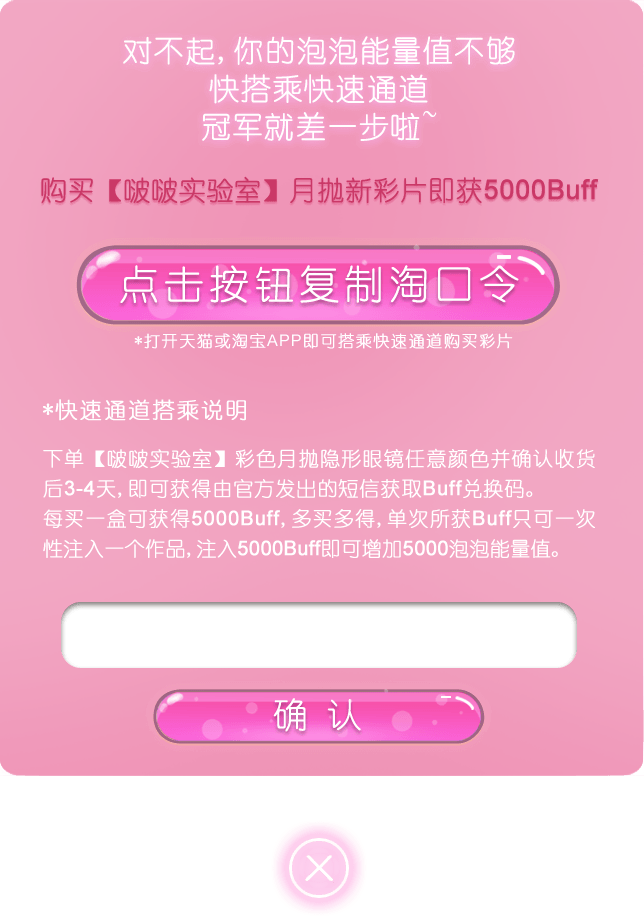
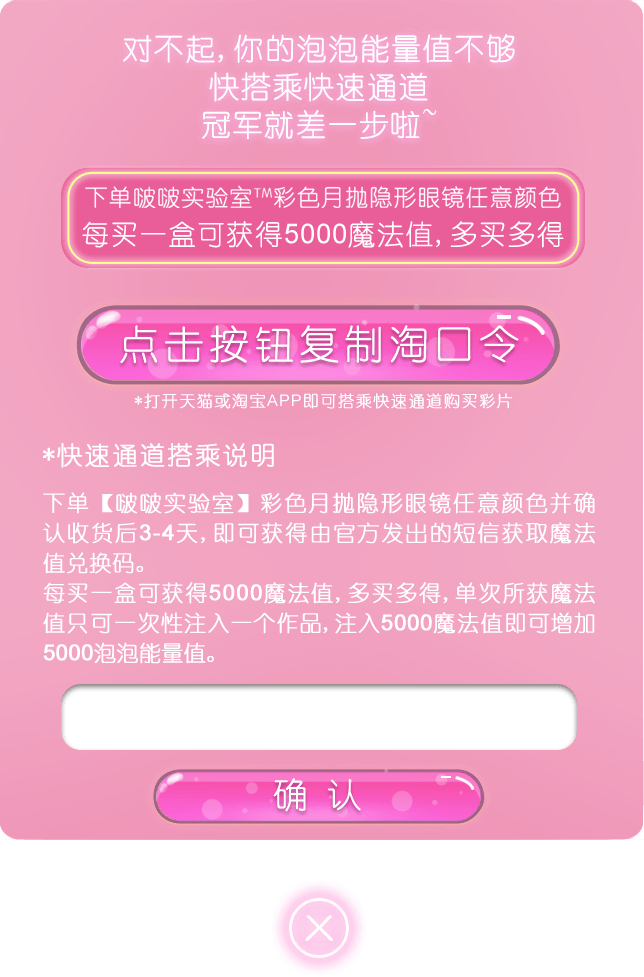
加能量页面修改

diff --git a/css/index.css b/css/index.css
@@ -1056,7 +1056,7 @@ input::-webkit-input-placeholder, textarea::-webkit-input-placeholder {
 	top: 50%;
 	left: 50%;
 	width: 6.44rem;
-	height: 9.17rem;
+	height: 9.77rem;
 	transform: translate(-50%, -50%);
 	background-image: url(../images/codeBox/k2.png);
 }
@@ -1064,7 +1064,7 @@ input::-webkit-input-placeholder, textarea::-webkit-input-placeholder {
 	display: block;
 	width: 5rem;
 	height: 0.66rem;
-	margin: 2.7rem auto 0.2rem;
+	margin: 2.85rem auto 0.2rem;
 	font-size: 0.31rem;
 	text-align: center;
 }
@@ -1083,7 +1083,7 @@ input::-webkit-input-placeholder, textarea::-webkit-input-placeholder {
 #addEnergy .copyBtn1{
 	width: 5.04rem;
 	height: 1.11rem;
-	margin: 2.25rem auto 0;
+	margin: 2.9rem auto 0;
 }
 #addEnergy .cont .close{
 	position: absolute;
